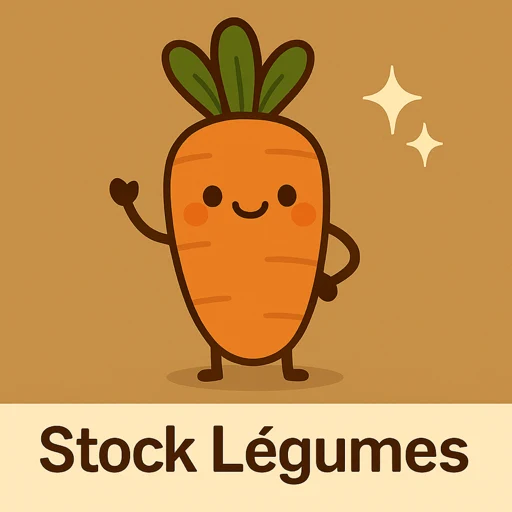
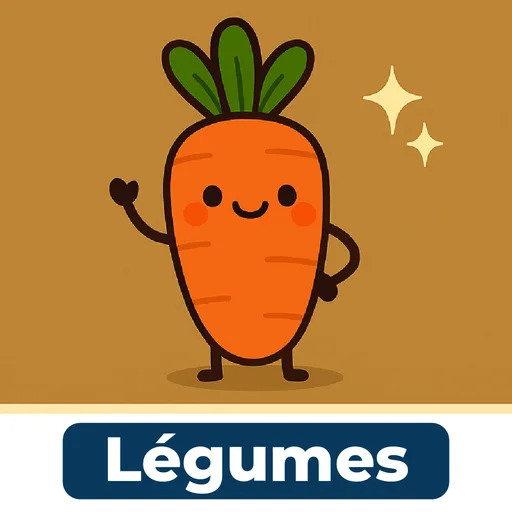
feat(visuels): jeu d'images uniformisé, et le dossier passe de 6,6 à 1,9 Mo
Les treize illustrations refaites par Lénaïc, toutes au même format :
illustration puis pastille foncée portant le mot. Les onze qui ont un
usage sont branchées sans changement de code — elles reprennent les noms
de fichiers existants.

Deux pièges rencontrés et corrigés :
- les JPEG d'origine embarquent un profil couleur de 485 Ko, que la
  conversion recopiait dans CHAQUE fichier produit. Il pesait davantage
  que les images elles-mêmes. Retiré.
- le fichier accentué « surgelé » a été réécrit sous SON nom exact plutôt
  qu'un second fabriqué à côté, qui ne se serait jamais affiché.

Résultat : dossier de 6,58 Mo à 1,92 Mo, dont 282 Ko de WebP — c'est la
seule partie que les téléphones téléchargent, le PNG n'étant qu'un repli
pour un navigateur qui ne lirait pas ce format.

autres.png/webp supprimés : cette catégorie n'existe plus dans
l'application, et son illustration est remplacée par Hygiène.

hygiene et releve sont déposées mais PAS branchées : la première suppose
une catégorie qui n'existe pas encore, la seconde un écran de relevé de
températures qui reste à construire.

Claude-Session: https://claude.ai/code/session_014qU427z5gzvDvYT3tww4Wh

diff --git a/index.html b/index.html
@@ -2376,8 +2376,8 @@
     <div id="product-menu-backdrop"></div>
 
     <!-- SCRIPTS -->
-<script src="config.js?v=20261004"></script>
-    <script src="database.js?v=20261004"></script>
-    <script src="app.js?v=20261004"></script>
+<script src="config.js?v=20261005"></script>
+    <script src="database.js?v=20261005"></script>
+    <script src="app.js?v=20261005"></script>
 </body>
 </html>
